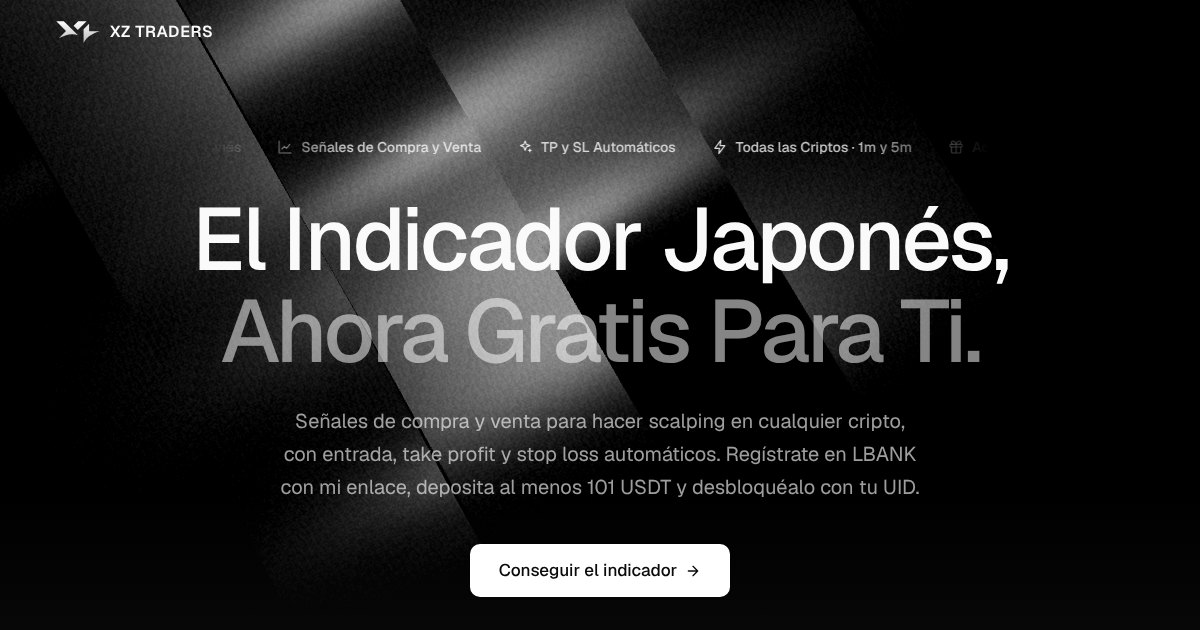
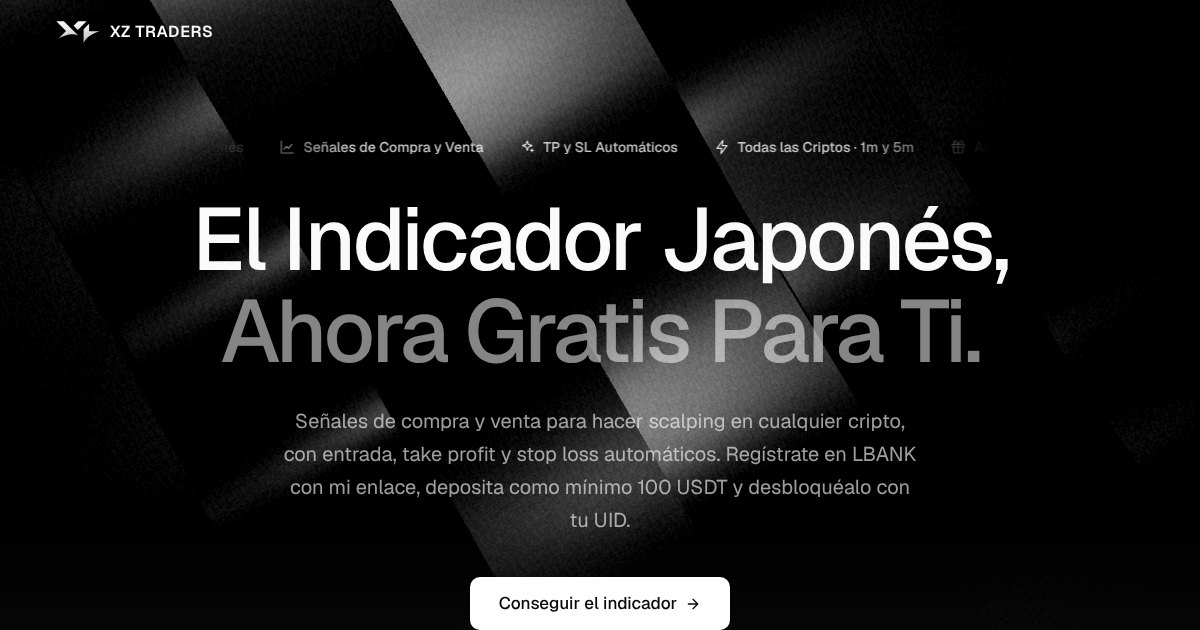
Web: depósito mínimo de 100 USDT (la API acepta 100 o más)
Claude-Session: https://claude.ai/code/session_01BGcnFHYadWKZMfGM3phv2L

Changed region(s): [[0.0308, 0.0, 0.7708, 1.0], [0.4317, 0.1206, 0.4625, 0.1508]]

diff --git a/public/index.html b/public/index.html
@@ -12,7 +12,7 @@
     <title>Indicador Japonés de XZ TRADERS · Gratis con tu cuenta de LBANK</title>
     <meta
       name="description"
-      content="Consigue gratis el indicador japonés de XZ TRADERS para TradingView: señales de scalping para cualquier cripto con entrada, take profit y stop loss automáticos. Regístrate en LBANK con nuestro enlace, deposita al menos 101 USDT y desbloquéalo con tu UID."
+      content="Consigue gratis el indicador japonés de XZ TRADERS para TradingView: señales de scalping para cualquier cripto con entrada, take profit y stop loss automáticos. Regístrate en LBANK con nuestro enlace, deposita como mínimo 100 USDT y desbloquéalo con tu UID."
     />
     <meta name="theme-color" content="#000000" />
     <link rel="canonical" href="https://indicador.xztraders.com/" />
@@ -24,7 +24,7 @@
     <meta property="og:title" content="El Indicador Japonés de XZ TRADERS, ahora gratis" />
     <meta
       property="og:description"
-      content="Regístrate en LBANK con nuestro enlace, deposita al menos 101 USDT y desbloquéalo al momento con tu UID."
+      content="Regístrate en LBANK con nuestro enlace, deposita como mínimo 100 USDT y desbloquéalo al momento con tu UID."
     />
     <meta property="og:image" content="https://indicador.xztraders.com/assets/img/og-cover.jpg" />
     <meta property="og:image:width" content="1200" />
@@ -130,7 +130,7 @@
 
           <p class="hero__lead">
             Señales de compra y venta para hacer scalping en cualquier cripto, con entrada, take profit y stop loss automáticos.
-            Regístrate en LBANK con mi enlace, deposita al menos 101&nbsp;USDT y desbloquéalo con tu UID.
+            Regístrate en LBANK con mi enlace, deposita como mínimo 100&nbsp;USDT y desbloquéalo con tu UID.
           </p>
 
           <div class="hero__ctas">
@@ -205,7 +205,7 @@
             <li class="step reveal">
               <span class="step__num">02</span>
               <span class="icon-box"><svg aria-hidden="true"><use href="#i-wallet" /></svg></span>
-              <h3>Deposita al menos 101&nbsp;USDT</h3>
+              <h3>Deposita como mínimo 100&nbsp;USDT</h3>
               <p>Es tu capital para operar y se queda en tu cuenta. No es un pago.</p>
             </li>
             <li class="step reveal">
@@ -227,7 +227,7 @@
           <div class="section-head section-head--center reveal">
             <p class="eyebrow eyebrow--lines">Desbloquear</p>
             <h2 class="h2 h2--xl">Consigue el indicador.</h2>
-            <p class="lead">Comprobamos que tu cuenta se creó con mi enlace y que has depositado al menos 101&nbsp;USDT. Si todo está bien, te damos el enlace al momento.</p>
+            <p class="lead">Comprobamos que tu cuenta se creó con mi enlace y que has depositado como mínimo 100&nbsp;USDT. Si todo está bien, te damos el enlace al momento.</p>
           </div>
 
           <div class="verify reveal">
@@ -277,10 +277,10 @@
             </details>
             <details>
               <summary>¿Cómo consigo el indicador?<svg aria-hidden="true"><use href="#i-plus" /></svg></summary>
-              <p>Regístrate en LBANK con mi enlace, deposita al menos 101&nbsp;USDT y escribe tu UID en el <a class="link" href="#verificar">formulario de verificación</a>. Si todo está bien, recibes el enlace al momento.</p>
+              <p>Regístrate en LBANK con mi enlace, deposita como mínimo 100&nbsp;USDT y escribe tu UID en el <a class="link" href="#verificar">formulario de verificación</a>. Si todo está bien, recibes el enlace al momento.</p>
             </details>
             <details>
-              <summary>¿Los 101&nbsp;USDT son un pago?<svg aria-hidden="true"><use href="#i-plus" /></svg></summary>
+              <summary>¿Los 100&nbsp;USDT son un pago?<svg aria-hidden="true"><use href="#i-plus" /></svg></summary>
               <p>No. Es tu capital para operar y se queda en tu cuenta de LBANK.</p>
             </details>
             <details>

diff --git a/public/assets/js/main.js b/public/assets/js/main.js
@@ -26,7 +26,7 @@ const VERIFY_MESSAGES = {
   },
   not_registered: {
     title: 'Esta cuenta no está registrada con mi enlace',
-    text: 'Crea una cuenta nueva en LBANK con mi enlace, deposita al menos 101 USDT y vuelve a probar. Si acabas de registrarte, espera unos 10 minutos o escríbeme por Telegram.',
+    text: 'Crea una cuenta nueva en LBANK con mi enlace, deposita como mínimo 100 USDT y vuelve a probar. Si acabas de registrarte, espera unos 10 minutos o escríbeme por Telegram.',
     actions: [
       { label: 'Abrir LBANK', link: 'lbank' },
       { label: 'Escribe a BAEZZA por Telegram', link: 'contact' },
@@ -38,8 +38,8 @@ const VERIFY_MESSAGES = {
     actions: [{ label: 'Abrir LBANK', link: 'lbank' }],
   },
   low_deposit: {
-    title: 'Aún no llegas a 101 USDT depositados en LBANK',
-    text: 'Deposita al menos 101 USDT en tu cuenta de LBANK. Si acabas de hacerlo, espera unos minutos y vuelve a probar.',
+    title: 'Aún no llegas a 100 USDT depositados en LBANK',
+    text: 'Deposita como mínimo 100 USDT en tu cuenta de LBANK. Si acabas de hacerlo, espera unos minutos y vuelve a probar.',
   },
   rate_limited: {
     title: 'Demasiados intentos',

diff --git a/test/verify.test.js b/test/verify.test.js
@@ -140,7 +140,7 @@ describe('/api/verify', () => {
     assert.deepEqual(body, { ok: true, url: ENV.INDICATOR_URL });
   });
 
-  it('acepta justo el mínimo de la API (100), aunque la web diga 101', async () => {
+  it('acepta justo el mínimo (100 USDT) y cualquier cantidad mayor', async () => {
     assert.equal((await verify('LBA000EXACT', users)).body.ok, true);
     assert.equal((await verify('LBA000110', users)).body.ok, true);
   });

diff --git a/README.md b/README.md
@@ -3,7 +3,7 @@
 Web del **Indicador Japonés** de XZ TRADERS. Para conseguirlo, el usuario:
 
 1. Se registra en LBANK con el enlace de afiliado.
-2. Deposita al menos 101 USDT.
+2. Deposita como mínimo 100 USDT.
 3. Escribe su UID de LBANK en la web. Se comprueba al momento con la API de afiliados de LBANK y, si cumple, recibe el enlace del indicador.
 
 La web se publica en **Netlify**. La comprobación es una función de Netlify (`/api/verify`) porque la clave de la API de LBANK no puede estar en la página: cualquiera podría verla, y además LBANK no deja que un navegador llame a su API directamente.
@@ -54,7 +54,7 @@ Se configuran en Netlify, en *Site configuration → Environment variables*. Nun
 | `LBANK_API_KEY`         | Sí          | API key de afiliado de LBANK                                           |
 | `LBANK_API_SECRET`      | Sí          | Secret key de esa API key (firma HmacSHA256)                           |
 | `INDICATOR_URL`         | Sí          | Enlace que recibe quien cumple: `https://es.tradingview.com/script/stIGX5O9/` |
-| `MIN_DEPOSIT`           | No (`100`)  | USDT mínimos que exige la API. La web pide 101 a propósito: así hay margen |
+| `MIN_DEPOSIT`           | No (`100`)  | USDT mínimos que exige la API (se acepta igual o más). Coincide con lo que pide la web |
 | `DEPOSIT_FIELD`         | No (`netDeposit`) | `netDeposit` (depósitos − retiradas) o `totalDeposit` (solo depósitos) |
 | `REQUIRE_DIRECT_INVITE` | No (`true`) | `false` acepta también a los invitados por tus subafiliados            |
 
